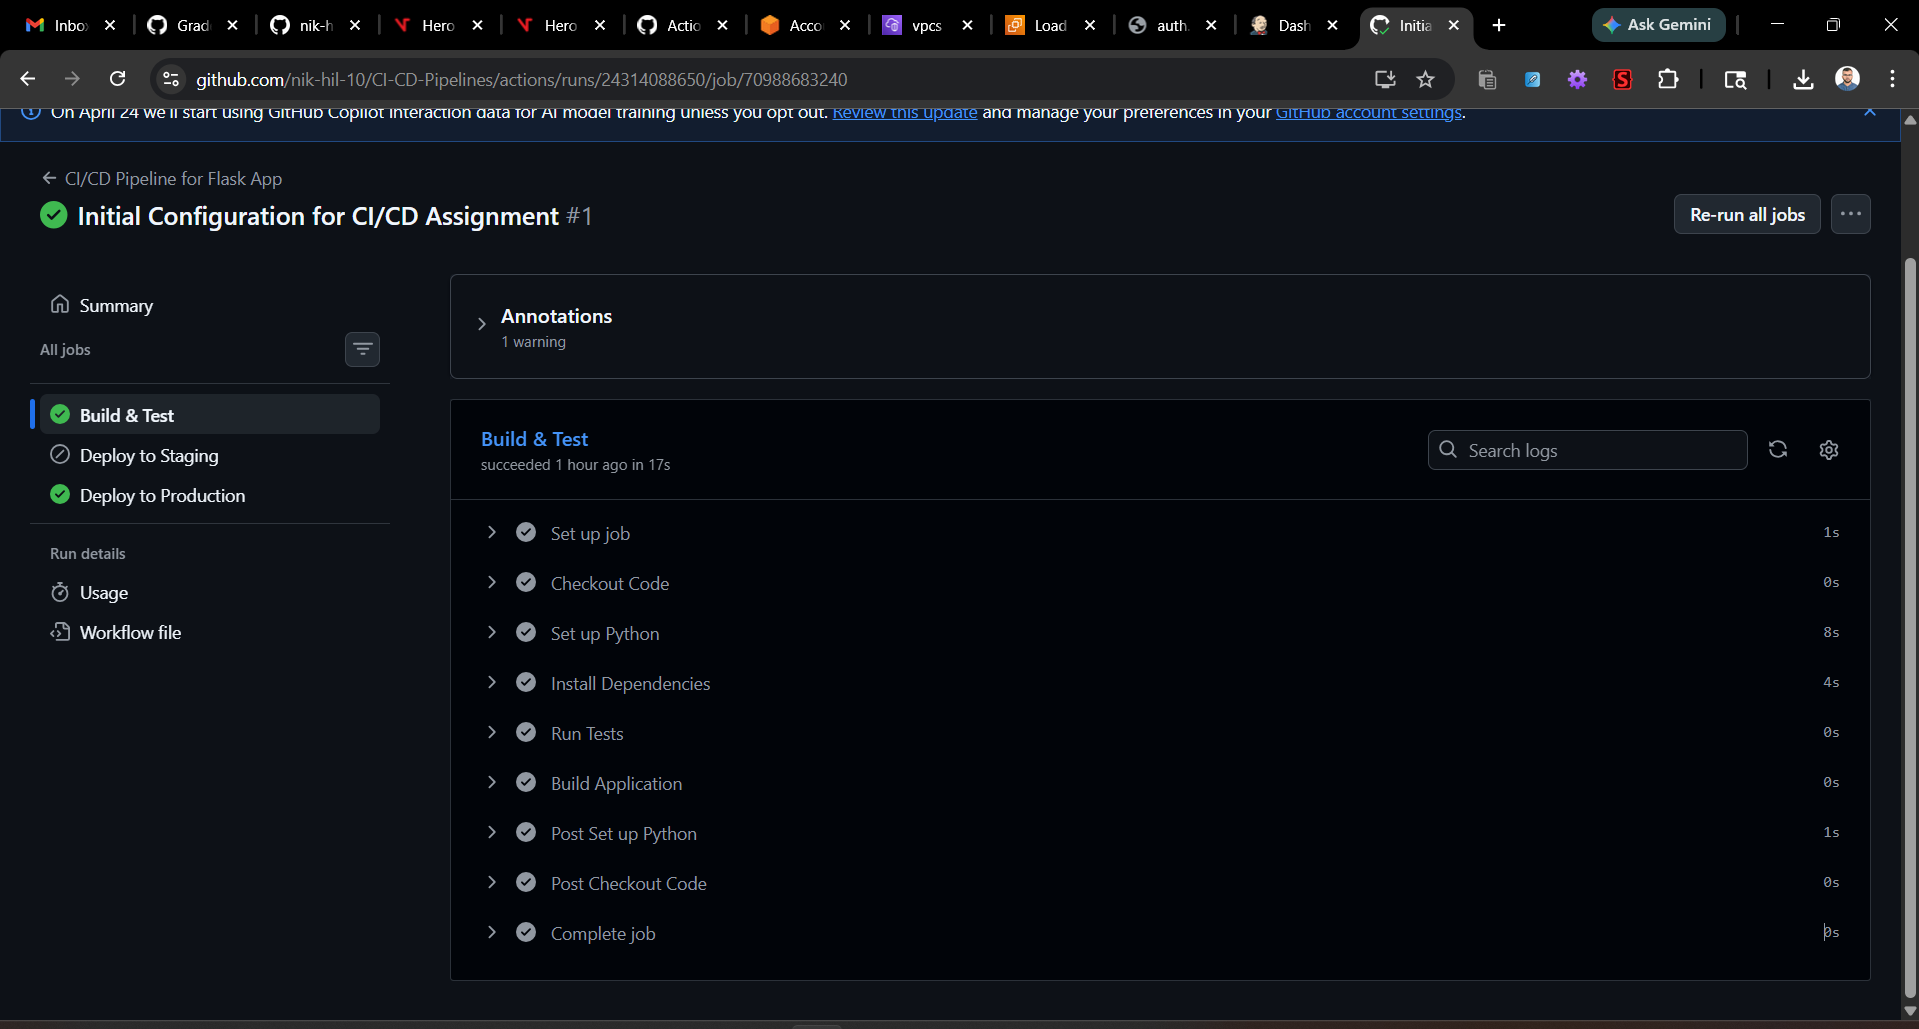
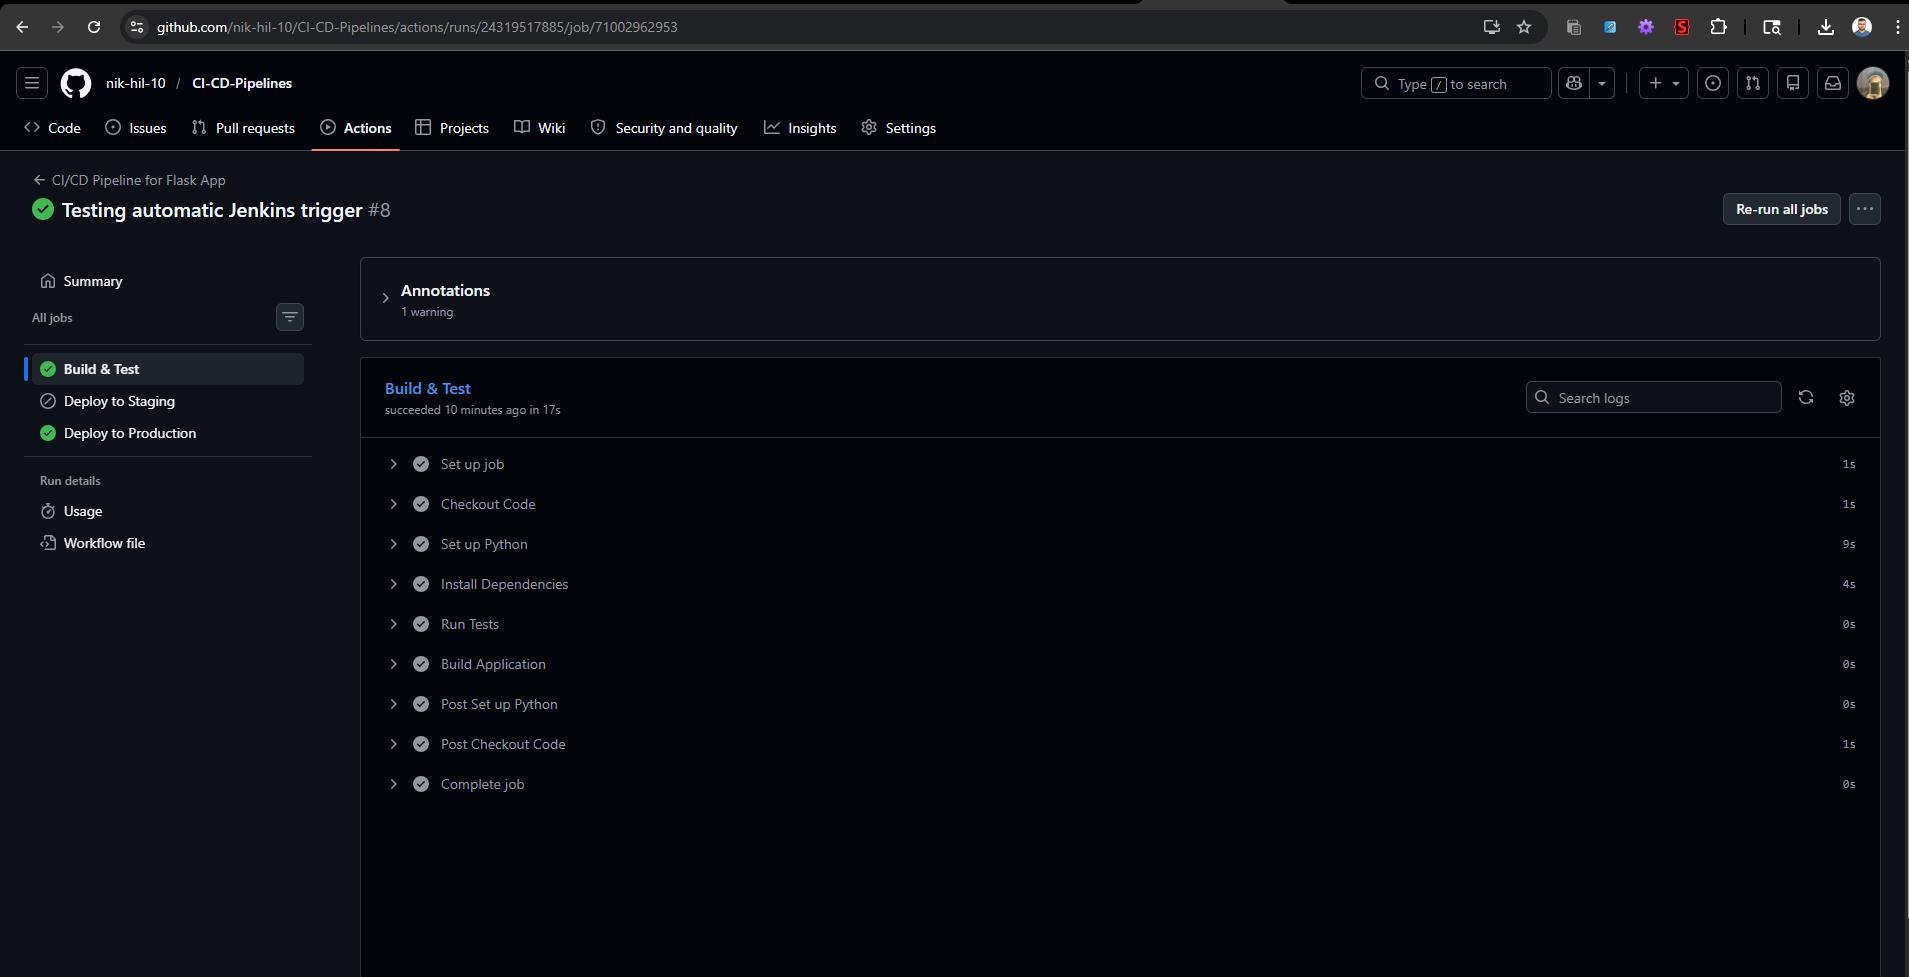
Final assignment submission with documented screenshots

diff --git a/README.md b/README.md
@@ -58,6 +58,7 @@ Jenkins is configured with SMTP (Gmail) under **Manage Jenkins → System → E-
 ### Jenkins Pipeline Screenshots
 
 ![Jenkins Pipeline Stages](screenshots/jenkins-pipeline.png)
+![Jenkins Automatic GitHub Trigger](screenshots/jenkins-github-trigger.png)
 
 ---
 
@@ -91,4 +92,5 @@ The following GitHub Secrets are configured under **Settings → Secrets and var
 
 ### GitHub Actions Screenshots
 
-![GitHub Actions Workflow](screenshots/github-actions.png)
+![GitHub Actions Workflow Runs](screenshots/github-actions-runs.png)
+![GitHub Actions Job Details](screenshots/github-actions-details.png)
